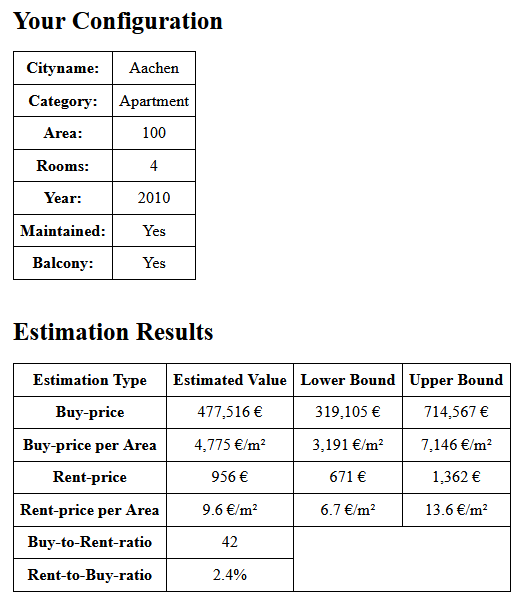
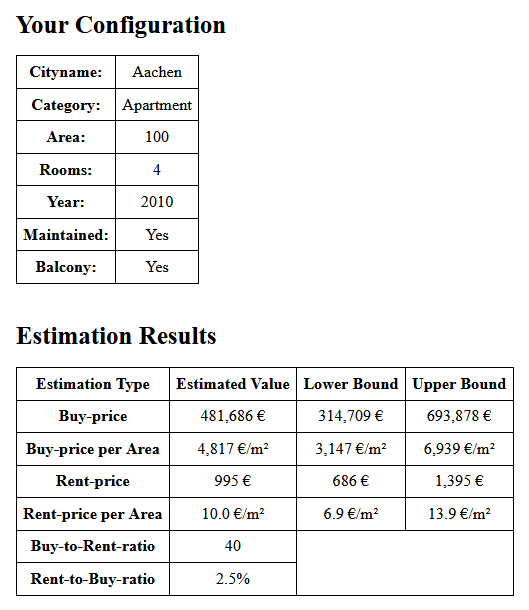
finetuning

Changed region(s): [[0.0, 0.595, 0.979, 0.9818], [0.0, 0.0, 0.4283, 0.476], [0.0306, 0.5355, 0.4283, 0.5653]]

diff --git a/modeling.py b/modeling.py
@@ -44,6 +44,7 @@ def gridSearch_fitAndPredict(X_train, y_train, X_test, y_test, columns, pipe,
     crossValScore_mean = -gs.best_score_
     y_test_predict = gs.best_estimator_.predict(X_test[columns])
     test_errors = (y_test_predict - y_test).abs()
+    test_errors_notAbsolute = (y_test_predict - y_test)
     test_mean_absolute_error = mean_absolute_error(y_test, y_test_predict)
     test_median_absolute_error = median_absolute_error(y_test, y_test_predict)
     test_explained_variance_score = explained_variance_score(y_test, y_test_predict)
@@ -55,7 +56,8 @@ def gridSearch_fitAndPredict(X_train, y_train, X_test, y_test, columns, pipe,
             'test_mean_absolute_error': test_mean_absolute_error,
             'test_explained_variance_score': test_explained_variance_score,
             'y_test_predict': y_test_predict,
-            'test_errors': test_errors}
+            'test_errors': test_errors,
+            'test_errors_notAbsolute': test_errors_notAbsolute}
 
 
 #----------------------------------------------------------------------------------------------------
@@ -326,10 +328,11 @@ def run():
         
         # Get model with used columns and test_errors and save it to file in current folder and web-application folder
         # HINT: Path of web-application folder is defined for my machine and needs to be adjusted for other machines!
-        for path in ['', '../buy-rent-price-estimator-for-apartments_web-application/']:
+        for path in ['', '../Buy-and-Rent-Price-Estimator-for-Apartments_Web-Application/']:
             pickle.dump({'model': modelsAndMeasures[modelName]['pipe_with_model'],
                          'columns_used': modelsAndMeasures[modelName]['columns_used'],
-                         'test_errors': modelsAndMeasures[modelName]['test_errors']},
+                         'test_errors': modelsAndMeasures[modelName]['test_errors'],
+                         'test_errors_notAbsolute': modelsAndMeasures[modelName]['test_errors_notAbsolute']},
                          open(path + 'model' + cat + '.p', 'wb'))
             print('Best model for ' + cat[1:] + ': ' + modelName + ' - saved to file ' + path + 'model' + cat + '.p')
         

diff --git a/analysing.py b/analysing.py
@@ -7,7 +7,9 @@ Loads all saved files created by executer.py for analysing them
 
 import generalFunctions as gf
 import pickle
-
+import numpy as np
+import matplotlib.pyplot as plt
+import seaborn as sns
 
 #----------------------------------------------------------------------------------------------------
 
@@ -50,10 +52,26 @@ for cat in ['_buy', '_rent']:
         modelConfigs['model' + cat] = data['model']
         modelConfigs['columns_used' + cat] = data['columns_used']
         modelConfigs['test_errors' + cat] = data['test_errors']
+        modelConfigs['test_errors_notAbsolute' + cat] = data['test_errors_notAbsolute']
+        modelConfigs['test_errors_notAbsolute_Quantile_5%' + cat] = data['test_errors_notAbsolute'].quantile(q=0.05)
+        modelConfigs['test_errors_notAbsolute_Quantile_95%' + cat] = data['test_errors_notAbsolute'].quantile(q=0.95)
+        modelConfigs['test_errorfactor_notAbsolute_Quantile_5%' + cat] = np.exp(data['test_errors_notAbsolute'].quantile(q=0.05))
+        modelConfigs['test_errorfactor_notAbsolute_Quantile_95%' + cat] = np.exp(data['test_errors_notAbsolute'].quantile(q=0.95))
         
 
 #----------------------------------------------------------------------------------------------------
 
   
 # Section 2: Analysing and Debugging
-
+    
+#Plotting distributions of different error measurement types
+fig, ax = plt.subplots(3, 2, figsize=(10,10))
+ax[0][0].set_title('Buy')
+ax[0][1].set_title('Rent')
+sns.histplot(modelConfigs['test_errors_buy'], stat='probability', shrink=0.8, ax=ax[0][0])
+sns.histplot(modelConfigs['test_errors_rent'], stat='probability', shrink=0.8, ax=ax[0][1])
+sns.histplot(modelConfigs['test_errors_notAbsolute_buy'], stat='probability', shrink=0.8, ax=ax[1][0])
+sns.histplot(modelConfigs['test_errors_notAbsolute_rent'], stat='probability', shrink=0.8, ax=ax[1][1])
+sns.histplot(np.exp(modelConfigs['test_errors_notAbsolute_buy']), stat='probability', shrink=0.8, ax=ax[2][0])
+sns.histplot(np.exp(modelConfigs['test_errors_notAbsolute_rent']), stat='probability', shrink=0.8, ax=ax[2][1])
+fig.tight_layout()

diff --git a/featureEngineering.py b/featureEngineering.py
@@ -318,7 +318,7 @@ def run():
     # Save dataframe only with cityname and coordinates to file in current folder and web-application folder
     # HINT: Path of web-application folder is defined for my machine and needs to be adjusted for other machines!
     gf.save_data(df_map[['City', 'Latitude', 'Longitude']].sort_values('City'), filename = 'nrwCityCoordinates')
-    gf.save_data(df_map[['City', 'Latitude', 'Longitude']].sort_values('City'), filename = '../buy-rent-price-estimator-for-apartments_web-application/nrwCityCoordinates')
+    gf.save_data(df_map[['City', 'Latitude', 'Longitude']].sort_values('City'), filename = '../Buy-and-Rent-Price-Estimator-for-Apartments_Web-Application/nrwCityCoordinates')
     
 
 # Function run() shall be executed if module is executed directly via console 

diff --git a/README.md b/README.md
@@ -118,7 +118,7 @@ The feature-engineering of the dataframes consists of:
 *X_rent.csv*, *X_train_rent.csv*, *X_test_rent.csv*, *y_rent.csv*, *y_train_rent.csv*, *y_test_rent.csv*
 
 OPTIONAL: Function *add_nearestApartments_medianPrice_forModel()* can be used to create a new column with a price-estimate for every apartment based on its nearest-neighboors-apartments in the train-dataframes.
-That created column can be used as a independet variable in Linear Regression models in module *modeling.py*, as they are unable to handle complicated non-linear relationship between coordinates-information (Latitude, Longitude) and the dependent-variable (buy-/rent-price).
+That created column can be used as a independet variable in Linear Regression models in module *modeling.py*, as they are unable to handle the complicated non-linear relationship between coordinates-information (Latitude, Longitude) and the dependent-variable (buy-/rent-price).
 But by default this function is deactivated (but can easily be activated) because its very time-intensive to calculate and all in all the Linear Regression models are beaten by the *Random Forest Regression* and *K-Nearest Neighbors Regression* models, which also work well without that created independent variable (see next chapter Modeling for details).
 
 ## Modeling
@@ -136,7 +136,7 @@ Arguments for having choosen these machine learning model types by taking into a
     * can be problematic for *K-Nearest Neighbors Regression* model because of [curse of dimensionality](https://en.wikipedia.org/wiki/Curse_of_dimensionality) and for *Linear Regression* model because of tendence to overfitting => may be healed by identifying and choosing only the variables with most explanatory power
   * complicated non-linear relationship between coordinates-information (Latitude, Longitude) and the dependent-variable (buy- / rent-price) in train-test-dataframes:
     * no problem for *Random Forest Regression* model and *K-Nearest Neighbors Regression* model
-    * problematic for *Linear Regression* model as it can not handle complicated non-linear relationships => may be healed by using a created proxy-variable for coordinates information, which is created in module *trainTestSplitting.py*: price-estimate for every apartment based on its nearest-neighboors-apartments in the train-dataframes
+    * problematic for *Linear Regression* model as it can not handle the complicated non-linear relationships => may be healed by using a created proxy-variable for coordinates information, which is created in module *trainTestSplitting.py*: price-estimate for every apartment based on its nearest-neighboors-apartments in the train-dataframes
   * time needed to train the model:
     * *K-Nearest Neighbors Regression* model needs no training-time
     * but training-time is very short for both other models (except grid-search for best model-configuration) and so not really relevant at all
@@ -186,7 +186,7 @@ Every model gets cross-validated based on the train-data (80%) with 3 folds. The
   | buy | ~ 27% | ~ 26% | ~ 89% |
   | rent | ~ 17% | ~ 16% | ~ 54% |
 
-  The *Linear Regression* models have the disadvantage, that they are unable to handle complicated non-linear relationship between coordinates-information (Latitude, Longitude) and the dependent-variable (buy-/rent-price) - they can only differentiate between more north/south and more west/east, which is to rough to handle the geographic price-distribution in North Rhine-Westphalia (compare map in section Exploring).
+  The *Linear Regression* models have the disadvantage, that they are unable to handle the complicated non-linear relationship between coordinates-information (Latitude, Longitude) and the dependent-variable (buy-/rent-price) - they can only differentiate between more north/south and more west/east, which is to rough to handle the geographic price-distribution in North Rhine-Westphalia (compare map in section Exploring).
 Therefore on an experimental basis a proxy-variable for the coordinates-information has been feature-engineered in the module *trainTestSplitting.py*: The function *add_nearestApartments_medianPrice_forModel()* creates a new column (=new independent variable) with a price-estimate for every apartment based on its nearest-neighboors-apartments in the train-dataframes (Median Price per area of the n nearest apartments multiplied with Area) - unfortunately, the calculation of the function in its current form takes a lot of time.
 Adding this created variable as a independent variable to the best (until then) *Linear Regression* model yields much better results:
   
@@ -199,13 +199,12 @@ Adding this created variable as a independent variable to the best (until then) 
 
 <a id='productionization'></a>
 ## Productionization: Web-Application
-* To easly use the best model for estimating buy & rent prices for individual apartment-configurations I created a web-application *app.py* using Flask and deployed it to Heroku. It has a comfortable user-interface and is accessible for everyone via the internet by calling this link: [price-estimator-apartment-nrw.herokuapp.com](https://price-estimator-apartment-nrw.herokuapp.com)
+* To easily use the best model for estimating buy & rent prices for individual apartment-configurations I created a web-application *app.py* using Flask and deployed it to Heroku. It has a comfortable user-interface and is accessible for everyone via the internet by calling this link: [price-estimator-apartment-nrw.herokuapp.com](https://price-estimator-apartment-nrw.herokuapp.com)
 * By calling the link, the user automatically sends a request to the *app.py* deployed to Heroku, which then returns an HTML-input-formular to specify the desired apartment-configuration:
 
   <img src="presentation/Web-App_Input.PNG">
 
-* After filling out the formular and hitting the submit-button the formular-input is sent to the app via a POST-request. Then a buy & rent price estimation is performed, which is based on the formular-input-data and the deposited best model (*model_buy.p*, *model_rent.p*) created by *modeling.py*. The buy- & rent-estimation-values together with associated confidence-intervalls, which are derived from the also deposited 90%-quantile relative error of the model-test-validation, are then returned
-via a new HTML-page:
+* After filling out the formular and hitting the submit-button the formular-input is sent to the app via a POST-request. Then a buy & rent price estimation is performed, which is based on the formular-input-data and the deposited best model (*model_buy.p*, *model_rent.p*) created by *modeling.py*. The buy- & rent-estimation-values together with associated confidence-intervalls, which are derived from the relative error distribution of the model-test-validation, are then returned via a new HTML-page:
 
   <img src="presentation/Web-App_Output.PNG">
 
